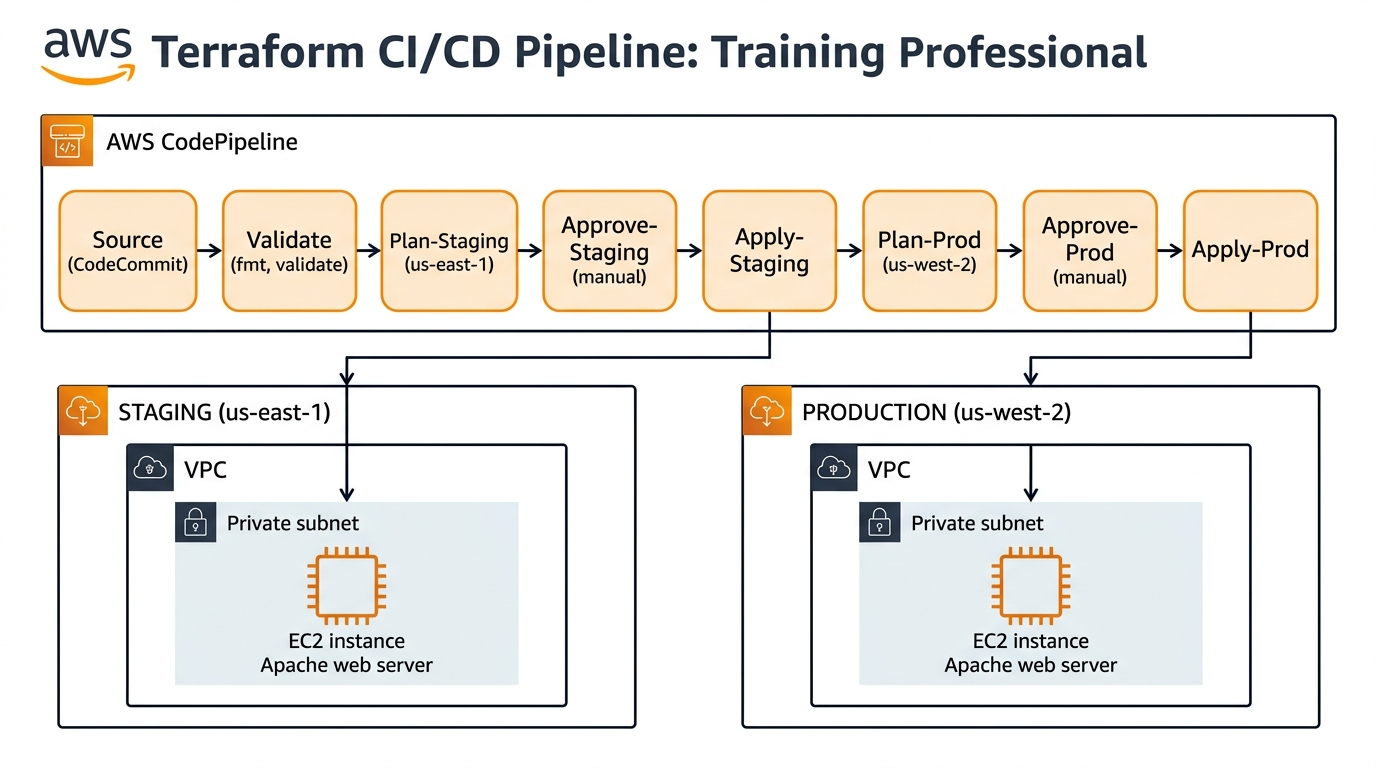
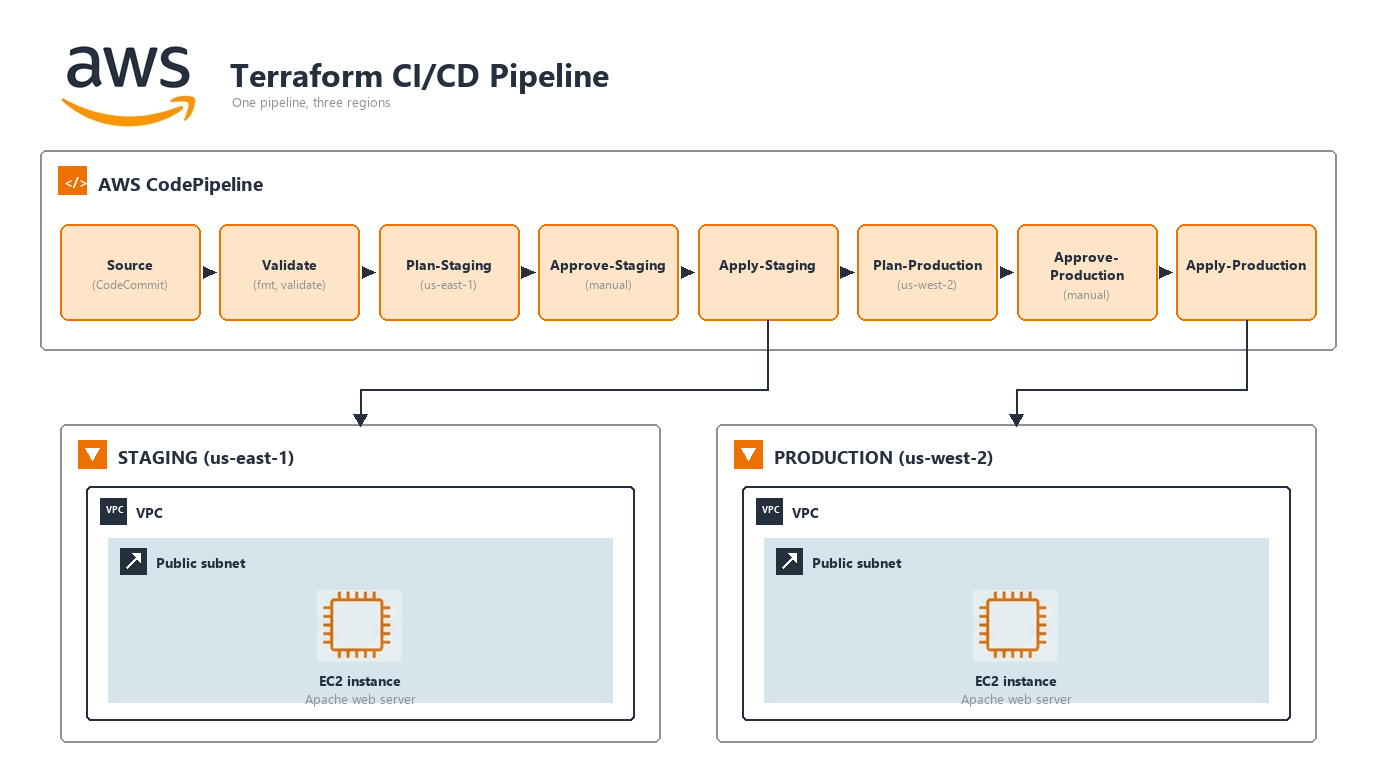
feat: Lab 1 challenge, and a corrected Lab 3 architecture diagram
Lab 1 gains an optional challenge between the bonus task and cleanup, so
it reads as optional rather than as part of the flow. It asks students to
carry the VPC CIDR through the cross-state contract: part 1 consumes the
vpc_cidr output lab1/networking already publishes and nothing reads, part
2 publishes a new one end to end. It states success conditions rather
than steps, and points at the existing three values as the worked
example. The ignore_changes on the parameter is left as the thing to
work out - it is the reason the first apply reports no change.

The Lab 3 diagram had the regions right all along; it had two other
errors. The last three stages read Plan-Prod / Approve-Prod / Apply-Prod
where the console stage names are Plan-Production / Approve-Production /
Apply-Production, and both environments were drawn with a private subnet
when the module builds a public one and the lab curls the public IP.

Redrawn to match the existing diagrams: same 1376x768 canvas, palette
sampled from the originals, and the AWS logo and EC2 glyph lifted from
the shipped images rather than reproduced. The generator lives in the
scratchpad and is idempotent, so the next region or stage-name change is
a one-line edit.

Changed region(s): [[0.0312, 0.0312, 0.9688, 0.9688], [0.5312, 0.4688, 0.9688, 0.9688], [0.4062, 0.625, 0.4688, 0.6562]]

diff --git a/labs/lab1.md b/labs/lab1.md
@@ -667,6 +667,50 @@ Optional — skip if you're short on time. This task gives you a concrete look a
 
 ---
 
+## Challenge: Extend the Cross-State Contract (optional, ~10 min)
+
+Everything this needs is already deployed. It is optional — if you are short on time, go straight
+to Task 6 and clean up.
+
+The `app-config` parameter you created in Task 4 records the environment, VPC, subnet, and
+security group. It does not record the VPC's CIDR block — even though the networking team already
+publishes it.
+
+**Part 1 — consume an output that already exists.**
+
+`lab1/networking/outputs.tf` declares a `vpc_cidr` output. Nothing reads it. Wire it through so
+the app config carries the CIDR too.
+
+**Success condition:** the parameter's value contains the CIDR block.
+
+```bash
+aws ssm get-parameter --name "/<your user_id>/dev/app-config" \
+    --query 'Parameter.Value' --output text
+```
+
+Two things to work out for yourself:
+
+- Where the value has to be read. The three values already in the config are read the same way.
+- Why your first `terraform apply` reports **no change** to the parameter, and what to do about
+  it. The answer is in the resource's own `lifecycle` block.
+
+**Part 2 — change the contract (stretch).**
+
+Publish something the networking team does not currently expose — the public subnet's CIDR — and
+consume that as well. This one is a two-sided change: declare the output, apply `lab1/networking`,
+then read it from the application state.
+
+> **If you get stuck:** `main.tf` in `lab1/state-infra` shows the pattern exactly — a `local` that
+> reads `data.terraform_remote_state.networking[0].outputs.<name>`, and a matching line in the
+> `jsonencode` block. `lab1/networking/outputs.tf` shows how an output is declared.
+
+> **Why this is the whole chapter in one exercise.** `terraform_remote_state` reads a state file's
+> **outputs**, not its resources. An output is the interface between two states, and Part 2 is what
+> changing that interface actually costs: the producing state has to be applied before the
+> consuming state can see the new value.
+
+---
+
 ## Task 6: Cleanup (5 min)
 
 The state bucket you created in Step 11 is a **bootstrap resource** — it holds the state file for this very configuration. Terraform can't destroy a bucket that's actively storing its own state (the state file would vanish mid-operation). The standard pattern in real orgs: treat the bootstrap state bucket as **manually managed and never deleted** — it's the durable record of every environment's history, and once a team adopts it, removing it would orphan every state file pointing at it. The steps below follow that pattern: drop the bucket from terraform's view, destroy everything else, and **leave the bucket in place**.
@@ -782,6 +826,7 @@ Use with caution -- only when certain no operation is running.
 - [ ] Verified the cross-state dependency by matching VPC IDs
 - [ ] Read the raw state file with `state pull` and `jq`
 - [ ] Cleaned up, leaving the state bucket in place for Labs 2-4
+- [ ] *(optional)* Extended the cross-state contract with the VPC CIDR
 
 
 ## Next Steps
